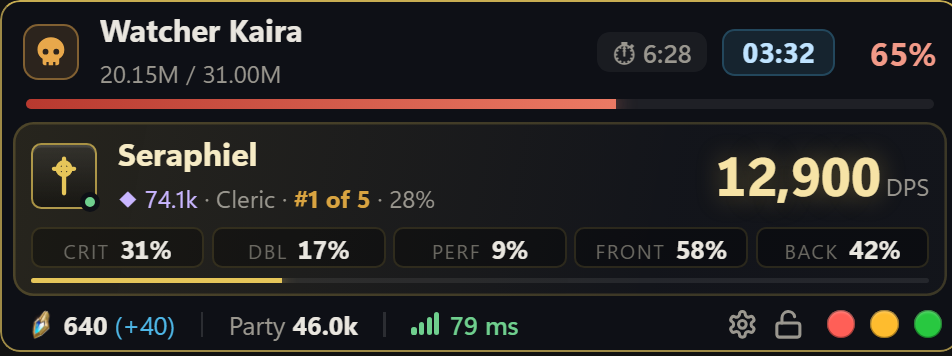
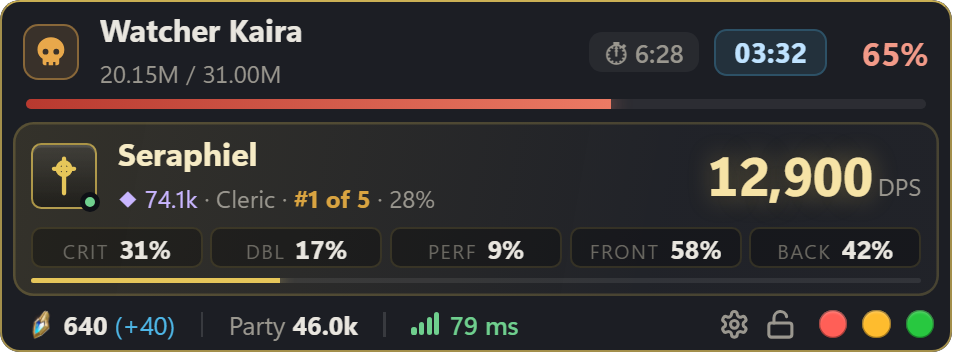
README pictures for 0.5.3; Solo no longer cut off
Headless Edge lays narrow pages out ~500 px wide and crops the screenshot,
which cut the right side and frame off the Solo card. render.js now pins
the Solo frame to the meter's real width (476 px); the website picture gets
4 px side room so card edges aren't trimmed.

diff --git a/docs/branding/showcase/render.js b/docs/branding/showcase/render.js
@@ -29,9 +29,13 @@ const base = `<base href="file:///${ui.replace(/ /g, "%20")}">`;
 const withMock = (file, mock) => fs.readFileSync(ui + file, "utf8").replace("<head>", "<head>" + base).replace('<script src="common.js"></script>', `<script>window.__DAEVA_MOCK__=async(cmd)=>{${mock}return null;};</script><script src="common.js"></script>`);
 const J = (v) => JSON.stringify(JSON.stringify(v));
 
-function meter(layout) {
+// width: pin the window frame to the meter's real width. Headless Edge lays a
+// narrow page out ~500 px wide and then crops the screenshot, which cut off
+// the right side of Solo (the meter itself sizes its window to the card).
+function meter(layout, width) {
   const snap = { party: null, status, fight, ui: { layout, solo: settings.solo, show_target: true, opacity: 0.94, scale: 1, accent: "#d9a441", rows: 8, columns: [], primary_metric: "dps" }, alerts: { enabled: true, show_next: true, next } };
-  return withMock("index.html", `if(cmd==="get_snapshot")return ${J(snap)};if(cmd==="get_settings")return JSON.parse(${J({ ...settings, layout })});if(cmd==="get_events")return JSON.stringify({catalog:[]});if(cmd==="update_status")return JSON.stringify({current:${JSON.stringify(version)}});if(cmd==="get_names")return JSON.stringify({lookup_on:true});`);
+  const html = withMock("index.html", `if(cmd==="get_snapshot")return ${J(snap)};if(cmd==="get_settings")return JSON.parse(${J({ ...settings, layout })});if(cmd==="get_events")return JSON.stringify({catalog:[]});if(cmd==="update_status")return JSON.stringify({current:${JSON.stringify(version)}});if(cmd==="get_names")return JSON.stringify({lookup_on:true});`);
+  return width ? html.replace("</head>", `<style>.shell{right:auto!important;width:${width}px!important}</style></head>`) : html;
 }
 function alert() {
   const starts = Math.floor(now / 300) * 300 + 300;
@@ -56,7 +60,7 @@ function shot(name, html, w, h, scale = 2, clear = false) {
     fs.writeFileSync(path.join(tmp, f), Buffer.from(await r.arrayBuffer()));
   }
   // Window sizes: Classic 520x330, Solo 372x135 at its 1.28 zoom, the alert takes the meter's width.
-  const shots = { classic: shot("classic", meter("classic"), 520, 330), solo: shot("solo", meter("solo"), 476, 178), alert: shot("alert", alert(), 520, 118) };
+  const shots = { classic: shot("classic", meter("classic"), 520, 330), solo: shot("solo", meter("solo", 476), 477, 177, 2, true), alert: shot("alert", alert(), 520, 118) };
   for (const [k, p] of Object.entries(shots)) fs.copyFileSync(p, path.join(outDir, `shot-${k}.png`));
 
   const page = fs.readFileSync(path.join(__dirname, "showcase.html"), "utf8").replace(/\{\{version\}\}/g, version);
@@ -64,7 +68,7 @@ function shot(name, html, w, h, scale = 2, clear = false) {
 
   // Tall picture for the meter section on aion2.bajubesi.org (transparent background).
   const stack = fs.readFileSync(path.join(__dirname, "site.html"), "utf8");
-  fs.copyFileSync(shot("site", stack, 460, 690, 2, true), path.join(outDir, "site-meter.png"));
+  fs.copyFileSync(shot("site", stack, 468, 690, 2, true), path.join(outDir, "site-meter.png"));
   fs.rmSync(tmp, { recursive: true, force: true });
   console.log(`Rendered README pictures for ${version} into docs/branding`);
 })().catch((e) => { console.error(e); process.exit(1); });

diff --git a/docs/branding/showcase/site.html b/docs/branding/showcase/site.html
@@ -2,7 +2,7 @@
 <!doctype html><meta charset="utf-8"><style>
 @font-face{font-family:Raj;src:url(rajdhani-medium.woff)}
 html,body{margin:0;background:transparent}
-.w{width:460px;padding:6px 0;display:grid;gap:14px;font-family:Raj,'Segoe UI',sans-serif}
+.w{width:460px;padding:6px 4px;display:grid;gap:14px;font-family:Raj,'Segoe UI',sans-serif}
 .l{font:600 12px Raj;letter-spacing:.18em;text-transform:uppercase;color:#8d96a8;margin:0 0 6px 4px}.l i{font-style:normal;color:#e8b04b}
 img{display:block;width:460px;border-radius:11px;box-shadow:0 0 0 1px rgba(232,176,75,.12)}
 </style><div class="w">
